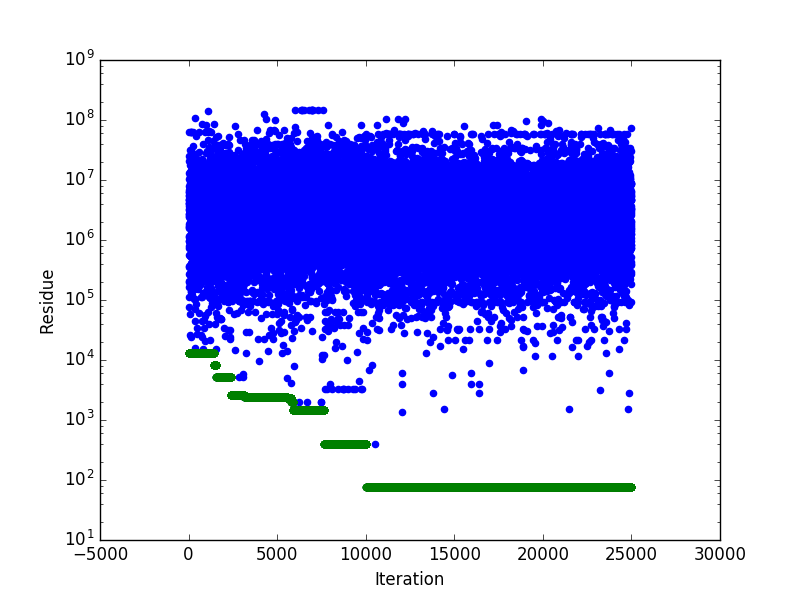
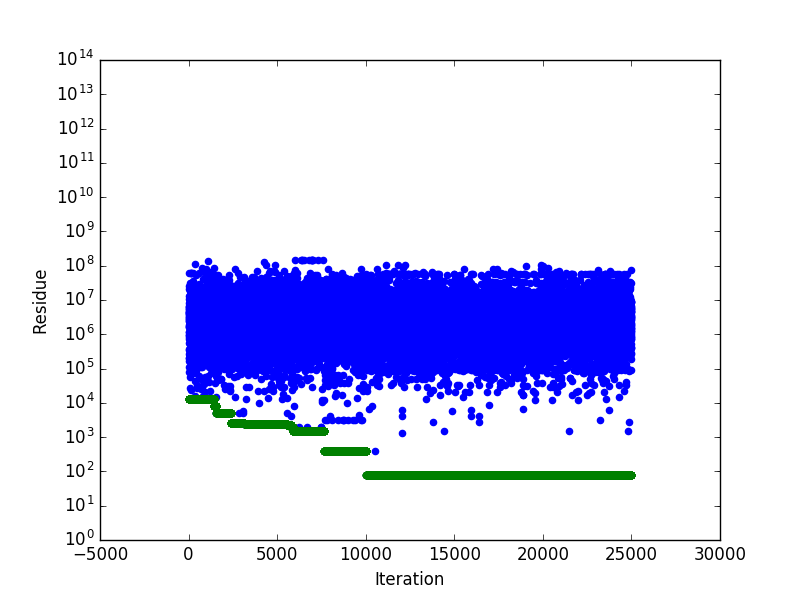
Changing plots to have same y-axis range

diff --git a/prog3/scripts/plotrrhc.py b/prog3/scripts/plotrrhc.py
@@ -1,7 +1,7 @@
 import matplotlib.pyplot as plt
 import numpy as np
 
-file = "hcp"
+file = "rrp"
 
 data = []
 with open("../data/" + file + ".csv", "r") as f:
@@ -25,7 +25,7 @@ splt.set_xlabel('Iteration')
 splt.set_ylabel('Residue')
 plt.scatter(x, residue, color="blue")
 plt.scatter(x, bestResidue, color="green")
-# plt.ylim([10**8,25000000000000])
+plt.ylim([10**0,10**14])
 plt.yscale('log')
 plt.savefig("../img/" + file + ".png")
 plt.show()

diff --git a/prog3/scripts/plotsa.py b/prog3/scripts/plotsa.py
@@ -28,7 +28,7 @@ splt.set_ylabel('Residue')
 plt.scatter(x, residue, color="blue")
 plt.scatter(x, sResidue, color="red")
 plt.scatter(x, bestResidue, color="green")
-# plt.ylim([10**8,25000000000000])
+plt.ylim([10**0,10**14])
 plt.yscale('log')
 plt.savefig("../img/" + file + ".png")
 plt.show()
